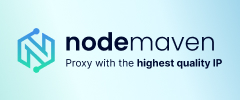
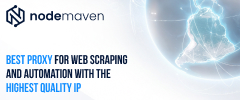
docs: updating a sponsor

diff --git a/docs/README_RU.md b/docs/README_RU.md
@@ -87,12 +87,12 @@ MySpider().start()
 <table>
   <tr>
     <td width="200">
-      <a href="https://go.nodemaven.com/scraplingjuly" target="_blank" title="Proxies with the Highest IP Scores">
+      <a href="https://go.nodemaven.com/scraplingaugust" target="_blank" title="Proxies with the Highest IP Scores">
         <img src="https://raw.githubusercontent.com/D4Vinci/Scrapling/main/images/NodeMaven.jpg" width="240" height="100">
       </a>
     </td>
     <td>
-    <a href="https://go.nodemaven.com/scraplingjuly" target="_blank">NodeMaven</a> - надёжный провайдер прокси с самым высоким качеством IP на рынке. Используйте промокод SCRAPLING35 для получения скидки 35% на прокси.
+    <a href="https://go.nodemaven.com/scraplingaugust" target="_blank">NodeMaven</a> - самый эффективный провайдер прокси для веб-скрапинга и автоматизации с самым высоким качеством IP на рынке. Используйте код SCRAPLING35 для получения скидки 35%.
     </td>
   </tr>
   <tr>

diff --git a/docs/README_KR.md b/docs/README_KR.md
@@ -87,12 +87,12 @@ MySpider().start()
 <table>
   <tr>
     <td width="200">
-      <a href="https://go.nodemaven.com/scraplingjuly" target="_blank" title="Proxies with the Highest IP Scores">
+      <a href="https://go.nodemaven.com/scraplingaugust" target="_blank" title="Proxies with the Highest IP Scores">
         <img src="https://raw.githubusercontent.com/D4Vinci/Scrapling/main/images/NodeMaven.jpg" width="240" height="100">
       </a>
     </td>
     <td>
-    <a href="https://go.nodemaven.com/scraplingjuly" target="_blank">NodeMaven</a> - 시장에서 가장 높은 품질의 IP를 제공하는 신뢰할 수 있는 프록시 제공업체입니다. 프로모 코드 SCRAPLING35를 사용하면 프록시 35% 할인을 받을 수 있습니다.
+    <a href="https://go.nodemaven.com/scraplingaugust" target="_blank">NodeMaven</a> - 웹 스크래핑과 자동화를 위한 가장 효율적인 프록시 제공업체로, 시장에서 가장 높은 품질의 IP를 제공합니다. 코드 SCRAPLING35를 사용하면 35% 할인을 받을 수 있습니다.
     </td>
   </tr>
   <tr>

diff --git a/docs/README_AR.md b/docs/README_AR.md
@@ -87,12 +87,12 @@ MySpider().start()
 <table>
   <tr>
     <td width="200">
-      <a href="https://go.nodemaven.com/scraplingjuly" target="_blank" title="Proxies with the Highest IP Scores">
+      <a href="https://go.nodemaven.com/scraplingaugust" target="_blank" title="Proxies with the Highest IP Scores">
         <img src="https://raw.githubusercontent.com/D4Vinci/Scrapling/main/images/NodeMaven.jpg" width="240" height="100">
       </a>
     </td>
     <td>
-    <a href="https://go.nodemaven.com/scraplingjuly" target="_blank">NodeMaven</a> - مزود بروكسيات موثوق يقدم أعلى جودة IP في السوق. استخدم كود الخصم SCRAPLING35 للحصول على خصم 35% على البروكسيات.
+    <a href="https://go.nodemaven.com/scraplingaugust" target="_blank">NodeMaven</a> - أكفأ مزود بروكسيات للـ Web Scraping والأتمتة، مع أعلى جودة IP في السوق. استخدم الكود SCRAPLING35 للحصول على خصم 35%.
     </td>
   </tr>
   <tr>

diff --git a/docs/README_JP.md b/docs/README_JP.md
@@ -87,12 +87,12 @@ MySpider().start()
 <table>
   <tr>
     <td width="200">
-      <a href="https://go.nodemaven.com/scraplingjuly" target="_blank" title="Proxies with the Highest IP Scores">
+      <a href="https://go.nodemaven.com/scraplingaugust" target="_blank" title="Proxies with the Highest IP Scores">
         <img src="https://raw.githubusercontent.com/D4Vinci/Scrapling/main/images/NodeMaven.jpg" width="240" height="100">
       </a>
     </td>
     <td>
-    <a href="https://go.nodemaven.com/scraplingjuly" target="_blank">NodeMaven</a> - 市場最高品質のIPを提供する信頼性の高いプロキシプロバイダー。プロモコード SCRAPLING35 でプロキシが35%割引になります。
+    <a href="https://go.nodemaven.com/scraplingaugust" target="_blank">NodeMaven</a> - Webスクレイピングと自動化のための最も効率的なプロキシプロバイダーで、市場最高品質のIPを提供します。コード SCRAPLING35 で35%割引になります。
     </td>
   </tr>
   <tr>

diff --git a/docs/README_FR.md b/docs/README_FR.md
@@ -87,12 +87,12 @@ MySpider().start()
 <table>
   <tr>
     <td width="200">
-      <a href="https://go.nodemaven.com/scraplingjuly" target="_blank" title="Proxies with the Highest IP Scores">
+      <a href="https://go.nodemaven.com/scraplingaugust" target="_blank" title="Proxies with the Highest IP Scores">
         <img src="https://raw.githubusercontent.com/D4Vinci/Scrapling/main/images/NodeMaven.jpg" width="240" height="100">
       </a>
     </td>
     <td>
-    <a href="https://go.nodemaven.com/scraplingjuly" target="_blank">NodeMaven</a> - fournisseur de proxys fiable offrant la meilleure qualité d'IP du marché. Utilisez le code promo SCRAPLING35 pour obtenir 35% de réduction sur les proxys.
+    <a href="https://go.nodemaven.com/scraplingaugust" target="_blank">NodeMaven</a> - le fournisseur de proxys le plus efficace pour le Web Scraping et l'automatisation, avec la meilleure qualité d'IP du marché. Utilisez le code SCRAPLING35 pour obtenir 35% de réduction.
     </td>
   </tr>
   <tr>

diff --git a/docs/README_ES.md b/docs/README_ES.md
@@ -87,12 +87,12 @@ MySpider().start()
 <table>
   <tr>
     <td width="200">
-      <a href="https://go.nodemaven.com/scraplingjuly" target="_blank" title="Proxies with the Highest IP Scores">
+      <a href="https://go.nodemaven.com/scraplingaugust" target="_blank" title="Proxies with the Highest IP Scores">
         <img src="https://raw.githubusercontent.com/D4Vinci/Scrapling/main/images/NodeMaven.jpg" width="240" height="100">
       </a>
     </td>
     <td>
-    <a href="https://go.nodemaven.com/scraplingjuly" target="_blank">NodeMaven</a> - proveedor de proxies confiable con la mayor calidad de IP del mercado. Usa el código promocional SCRAPLING35 para obtener un 35% de descuento en proxies.
+    <a href="https://go.nodemaven.com/scraplingaugust" target="_blank">NodeMaven</a> - el proveedor de proxies más eficiente para Web Scraping y automatización, con la mayor calidad de IP del mercado. Usa el código SCRAPLING35 para obtener un 35% de descuento.
     </td>
   </tr>
   <tr>

diff --git a/docs/README_PT_BR.md b/docs/README_PT_BR.md
@@ -89,12 +89,12 @@ MySpider().start()
 <table>
   <tr>
     <td width="200">
-      <a href="https://go.nodemaven.com/scraplingjuly" target="_blank" title="Proxies with the Highest IP Scores">
+      <a href="https://go.nodemaven.com/scraplingaugust" target="_blank" title="Proxies with the Highest IP Scores">
         <img src="https://raw.githubusercontent.com/D4Vinci/Scrapling/main/images/NodeMaven.jpg" width="240" height="100">
       </a>
     </td>
     <td>
-    <a href="https://go.nodemaven.com/scraplingjuly" target="_blank">NodeMaven</a> - provedor de proxies confiável com a mais alta qualidade de IP do mercado. Use o código promocional SCRAPLING35 para obter 35% de desconto em proxies.
+    <a href="https://go.nodemaven.com/scraplingaugust" target="_blank">NodeMaven</a> - o provedor de proxies mais eficiente para Web Scraping e automação, com a mais alta qualidade de IP do mercado. Use o código SCRAPLING35 para obter 35% de desconto.
     </td>
   </tr>
   <tr>

diff --git a/docs/README_DE.md b/docs/README_DE.md
@@ -87,12 +87,12 @@ MySpider().start()
 <table>
   <tr>
     <td width="200">
-      <a href="https://go.nodemaven.com/scraplingjuly" target="_blank" title="Proxies with the Highest IP Scores">
+      <a href="https://go.nodemaven.com/scraplingaugust" target="_blank" title="Proxies with the Highest IP Scores">
         <img src="https://raw.githubusercontent.com/D4Vinci/Scrapling/main/images/NodeMaven.jpg" width="240" height="100">
       </a>
     </td>
     <td>
-    <a href="https://go.nodemaven.com/scraplingjuly" target="_blank">NodeMaven</a> - zuverlässiger Proxy-Anbieter mit der höchsten IP-Qualität auf dem Markt. Nutze den Promo-Code SCRAPLING35 für 35% Rabatt auf Proxys.
+    <a href="https://go.nodemaven.com/scraplingaugust" target="_blank">NodeMaven</a> - der effizienteste Proxy-Anbieter für Web Scraping und Automatisierung mit der höchsten IP-Qualität auf dem Markt. Nutze den Code SCRAPLING35 für 35% Rabatt.
     </td>
   </tr>
   <tr>

diff --git a/README.md b/README.md
@@ -91,12 +91,12 @@ MySpider().start()
 <table>
   <tr>
     <td width="200">
-      <a href="https://go.nodemaven.com/scraplingjuly" target="_blank" title="Proxies with the Highest IP Scores">
+      <a href="https://go.nodemaven.com/scraplingaugust" target="_blank" title="Proxies with the Highest IP Scores">
         <img src="https://raw.githubusercontent.com/D4Vinci/Scrapling/main/images/NodeMaven.jpg" width="240" height="100">
       </a>
     </td>
     <td>
-    <a href="https://go.nodemaven.com/scraplingjuly" target="_blank">NodeMaven</a> - reliable proxy provider with the highest quality IP on the market. Use promo code SCRAPLING35 for 35% discount on proxies.
+    <a href="https://go.nodemaven.com/scraplingaugust" target="_blank">NodeMaven</a> - The most efficient proxy provider for Web Scraping and Automation with the Highest Quality IP on the market. Use code SCRAPLING35 for 35% discount.
     </td>
   </tr>
   <tr>

diff --git a/docs/README_CN.md b/docs/README_CN.md
@@ -87,12 +87,12 @@ MySpider().start()
 <table>
   <tr>
     <td width="200">
-      <a href="https://go.nodemaven.com/scraplingjuly" target="_blank" title="Proxies with the Highest IP Scores">
+      <a href="https://go.nodemaven.com/scraplingaugust" target="_blank" title="Proxies with the Highest IP Scores">
         <img src="https://raw.githubusercontent.com/D4Vinci/Scrapling/main/images/NodeMaven.jpg" width="240" height="100">
       </a>
     </td>
     <td>
-    <a href="https://go.nodemaven.com/scraplingjuly" target="_blank">NodeMaven</a> - 市场上 IP 质量最高的可靠代理提供商。使用优惠码 SCRAPLING35 可享代理 35% 折扣。
+    <a href="https://go.nodemaven.com/scraplingaugust" target="_blank">NodeMaven</a> - 最高效的网页抓取与自动化代理提供商,拥有市场上质量最高的 IP。使用优惠码 SCRAPLING35 可享 35% 折扣。
     </td>
   </tr>
   <tr>

diff --git a/docs/index.md b/docs/index.md
@@ -56,7 +56,7 @@ MySpider().start()
 
 <!-- sponsors -->
 <div style="text-align: center;">
-  <a href="https://go.nodemaven.com/scraplingjuly" target="_blank" title="Proxies with the Highest IP Scores">
+  <a href="https://go.nodemaven.com/scraplingaugust" target="_blank" title="Proxies with the Highest IP Scores">
     <img src="https://raw.githubusercontent.com/D4Vinci/Scrapling/main/images/NodeMaven.jpg" class="ad">
   </a>
   <a href="https://proxidize.com/?utm_source=github&utm_medium=sponsorship&utm_campaign=scrapling&utm_content=d4vinci" target="_blank" title="Clean Proxies with No Nonsense.">
